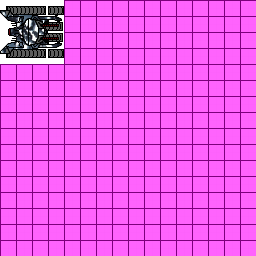
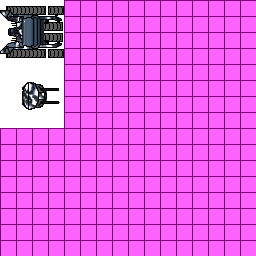
Eigenes Turret dreht sich mit der Maus mit, Gegner-Turrets noch nicht

Changed region(s): [[0.0, 0.25, 0.25, 0.5], [0.0625, 0.0625, 0.25, 0.1875]]

diff --git a/src/de/_13ducks/spacebatz/client/PlayerCharacter.java b/src/de/_13ducks/spacebatz/client/PlayerCharacter.java
@@ -34,9 +34,18 @@ public class PlayerCharacter extends Char {
      * Ab wann der Spieler respawnwn kann
      */
     private int respawntick;
+    /**
+     * RenderObject für das drehbare Turret.
+     */
+    private RenderObject turretRenderObject;
+    /**
+     * Richtung, in die das Turret gerade schaut.
+     */
+    private double turretDir;
 
     public PlayerCharacter(int netID) {
         super(netID, new RenderObject(new Animation(0, 4, 4, 1, 1)));
+        turretRenderObject = new RenderObject(new Animation(4, 4, 4, 1, 1));
         selectedattack = 0;
         healthpoints = Settings.CHARHEALTH;
         healthpointsmax = Settings.CHARHEALTH;
@@ -60,7 +69,7 @@ public class PlayerCharacter extends Char {
     public void tick(int gameTick) {
         for (int i = 0; i <= 2; i++) {
             Item weapon = GameClient.getEquippedItems().getEquipslots()[1][i];
-           
+
             if (weapon != null) {
                 if (i != selectedattack || GameClient.frozenGametick >= attackCooldownTick) {
                     weapon.increaseOverheat(-weapon.getWeaponAbility().getWeaponStats().getReduceoverheat());
@@ -90,5 +99,27 @@ public class PlayerCharacter extends Char {
      */
     public int getRespawntick() {
         return respawntick;
+    }
+
+    /**
+     * Liefert das RO des drehbaren Turrets.
+     *
+     * @return das RO des drehbaren Turrets
+     */
+    public RenderObject getTurretRenderObject() {
+        return turretRenderObject;
+    }
+
+    /**
+     * Liefert die Richtung, in die das Turret gerade schaut.
+     *
+     * @return die Richtung, in die das Turret gerade schaut
+     */
+    public double getTurretDir() {
+        return turretDir;
+    }
+
+    public void setTurretDir(double dir) {
+        turretDir = dir;
     }
 }

diff --git a/src/de/_13ducks/spacebatz/client/graphics/controls/GodControl.java b/src/de/_13ducks/spacebatz/client/graphics/controls/GodControl.java
@@ -236,8 +236,12 @@ public class GodControl implements Control {
         Camera camera = renderer.getCamera();
         TextWriter textWriter = renderer.getTextWriter();
 
+        // Player in der Mitte
         renderer.getCamera().setPanX((float) -GameClient.getPlayer().getX() + camera.getTilesX() / 2.0f);
         renderer.getCamera().setPanY((float) -GameClient.getPlayer().getY() + camera.getTilesY() / 2.0f);
+
+        // Turret zeigt auf Maus
+        GameClient.getPlayer().setTurretDir(Math.atan2((Mouse.getY() - Display.getHeight() / 2), (Mouse.getX() - Display.getWidth() / 2)));
 
         glClear(GL_STENCIL_BUFFER_BIT); // Stencil-Buffer löschen.
         // Boden und Wände zeichnen
@@ -342,8 +346,10 @@ public class GodControl implements Control {
         playerTiles.bind();
         for (Char c : GameClient.netIDMap.values()) {
             if (c instanceof PlayerCharacter) {
-                if (!((PlayerCharacter) c).isDead()) {
-                    renderAnim(c.getRenderObject().getBaseAnim(), c.getX(), c.getY(), c.getDir(), 0, renderer);
+                PlayerCharacter player = (PlayerCharacter) c;
+                if (!player.isDead()) {
+                    renderAnim(player.getRenderObject().getBaseAnim(), player.getX(), player.getY(), player.getDir(), 0, renderer);
+                    renderAnim(player.getTurretRenderObject().getBaseAnim(), player.getX(), player.getY(), player.getTurretDir(), 0, renderer);
                 }
             }
         }
@@ -753,7 +759,7 @@ public class GodControl implements Control {
                 }
                 break;
             case 5:
-                // Kein Pattern (=egal)
+            // Kein Pattern (=egal)
             case 6:
             case 7:
             case 8:
